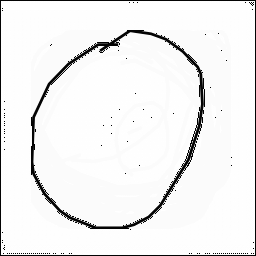
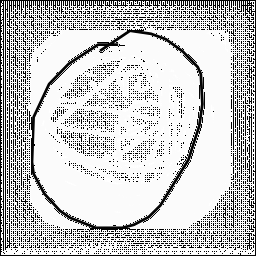
Save atlas functions
Now the loss reduces, i have to add two more lines that i removed in order to add the pretrain part. Is it necessary?

diff --git a/Run_Atlas_trainer.py b/Run_Atlas_trainer.py
@@ -99,6 +99,20 @@ def visualize_atlas_2D(atlas):
     plt.axis('off')  # Hide axis for a cleaner view
     plt.show()
 
+
+def visualize_loss(losses):
+    """
+    Visualizes the loss values.
+
+    Args:
+        losses (list): List of loss values.
+    """
+    plt.plot(losses)
+    plt.title("Loss")
+    plt.xlabel("Epoch")
+    plt.ylabel("Loss")
+    plt.show()
+
 def get_device():
     if torch.cuda.is_available():
         return "cuda"
@@ -231,6 +245,7 @@ def train_network2D(trainloader, aveloader, net, para, criterion, optimizer, Dis
 
     running_loss = 0
     total = 0
+    loss_per_epoch = []
 
     # Get an initialization of the atlas
     for ave_scan in aveloader:
@@ -257,10 +272,14 @@ def train_network2D(trainloader, aveloader, net, para, criterion, optimizer, Dis
     logger.banner("Training started")
     
     for epoch in range(para.solver.epochs):
+        #save the current atlas in atlas_snapshots (and the raw file)
+        save_atlas_2D(atlas, f'atlas_snapshots/atlas_epoch_{epoch}.png')
+        save_atlas(atlas, f'atlas_snapshots/atlas_epoch_{epoch}.nii.gz')
+
         net.train()
-        logger.info(message=f'Epoch: {epoch} & Current loss: {running_loss}')
+        logger.divider(f'Epoch: {epoch} & Current loss: {total}')
         for j, tar_bch in enumerate(trainloader):
-            logger.info(message=f'Batch: {j}')
+            logger.divider(f'Batch: {j}')
             #-take the dimensions of the batch for 2D images.
             logger.info(message=f"Batch shape: {tar_bch.shape}")
 
@@ -285,7 +304,7 @@ def train_network2D(trainloader, aveloader, net, para, criterion, optimizer, Dis
             identity = get_grid2D(img_size, dev).permute([0, 3, 2, 1])
             # epd = Epdiff(dev, (reduced_xDim, reduced_yDim), (xDim, yDim), para.solver.Alpha, para.solver.Gamma, para.solver.Lpow)
             epd = Epdiff2D(dev, (reduced_xDim, reduced_yDim), (xDim, yDim), para.solver.Alpha, para.solver.Gamma, para.solver.Lpow)
-            logger.divider("Math part")
+            # logger.divider("Math part")
 
             for b_id in range(b):   #adapted to 2D images
                 v_fourier = epd.spatial2fourier(momentum[b_id,...].reshape(w, h, 2))
@@ -307,6 +326,7 @@ def train_network2D(trainloader, aveloader, net, para, criterion, optimizer, Dis
             optimizer.step()
 
             running_loss += loss_total.item()
+            loss_per_epoch.append(loss_total.item())
             total += running_loss
             running_loss = 0.0
 
@@ -314,7 +334,7 @@ def train_network2D(trainloader, aveloader, net, para, criterion, optimizer, Dis
             
             logger.info(message=f"--Atlas gradient, max: {atlas.grad.max()}, min: {atlas.grad.min()}")
             logger.info(message=f"--Atlas gradient norm: {torch.norm(atlas.grad)}")
-            
+
 
 
         #if epoch >= para.model.pretrain_epoch:
@@ -323,6 +343,9 @@ def train_network2D(trainloader, aveloader, net, para, criterion, optimizer, Dis
     
     logger.success(message="Training finished")
     save_atlas_2D(atlas, 'final_atlas.png')
+
+    #plot the loss per epoch
+    visualize_loss(loss_per_epoch)
 
     return atlas
     
@@ -442,7 +465,7 @@ def train_network(trainloader, aveloader, net, para, criterion, optimizer, DistT
 def main():
 
 
-    lg = log()
+    lg = log(log_file='aplication.log')
 
     parser = argparse.ArgumentParser(description='Run Atlas Trainer')
     parser.add_argument('--json_file', type=str, required=True, help='Name of the JSON file')
@@ -458,9 +481,11 @@ def main():
     # print(f'Running Atlas Trainer with JSON file: {json_file}')
 
     if args.two_dims:
+        lg.custom("Running Atlas Trainer with 2D images", "green")
         datadir = 'datasets/jsons/circle.ndjson'
         #load the ndjson file and get the dimensions of the image
-        dataset = GoogleDrawDataset2d(datadir, samples=40)
+        lg.info(message=f"Loading dataset from: {datadir}")
+        dataset = GoogleDrawDataset2d(datadir, samples=120)
         trainloader = DataLoader(dataset, batch_size=para.solver.batch_size, shuffle=True)   # ? Batch size?
         aveloader = DataLoader(dataset, batch_size=1, shuffle=False)
 
@@ -469,7 +494,8 @@ def main():
 
 
         datahandler = DataLoaderHandler(ndjson_file=datadir, samples=5, resize=256, batch_size=16)
-        # datahandler.show_example()
+        datahandler.show_example()
+        datahandler.save_dataloader('dataloader.pt')
 
         #obtain the dimensions of the image, generic way, take an image and obtain its dimensions
         for batch in trainloader:

diff --git a/datasets/datasetloader.py b/datasets/datasetloader.py
@@ -77,7 +77,6 @@ class DataLoaderHandler:
     
     def save_dataloader(self, file_path='dataloader.pt'):
         torch.save(self.dataloader, file_path)
-        print(f"Dataloader guardado en '{file_path}'")
     
     def show_example(self):
         for batch in self.dataloader:
